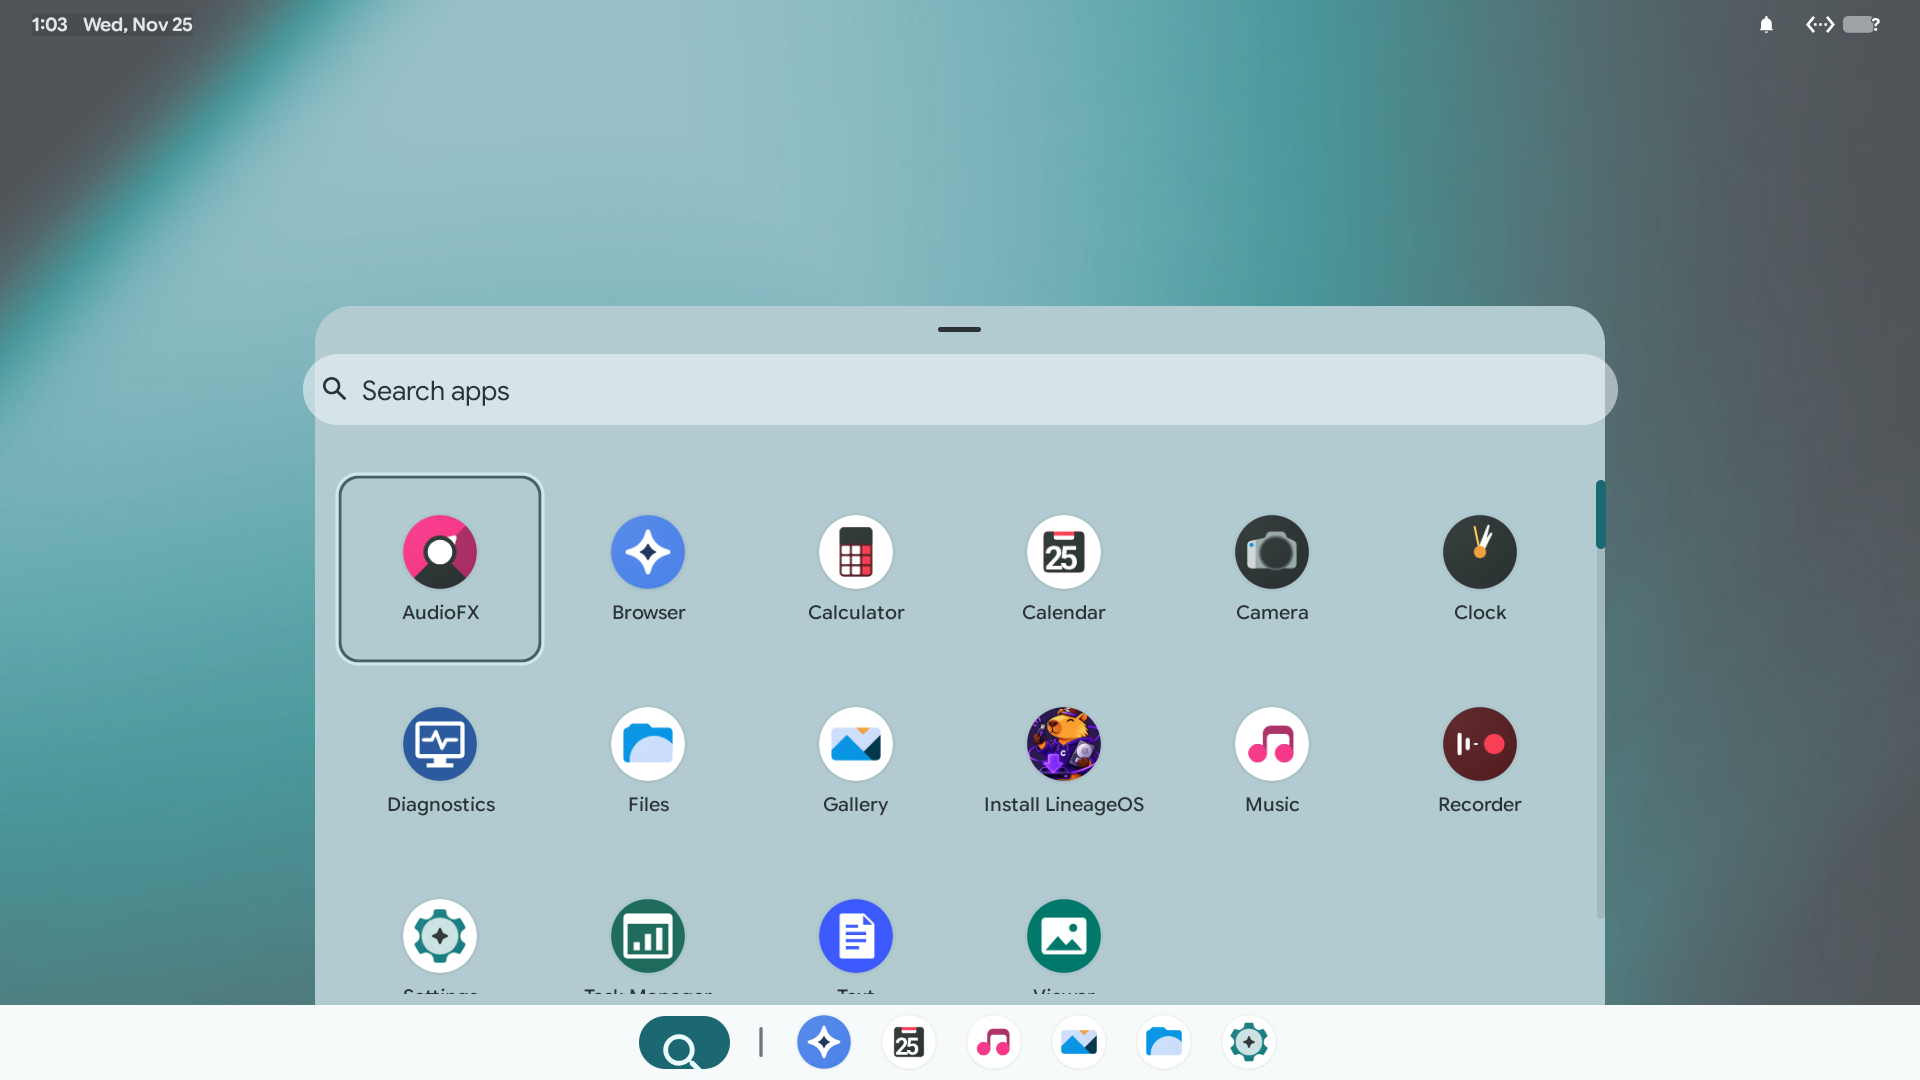
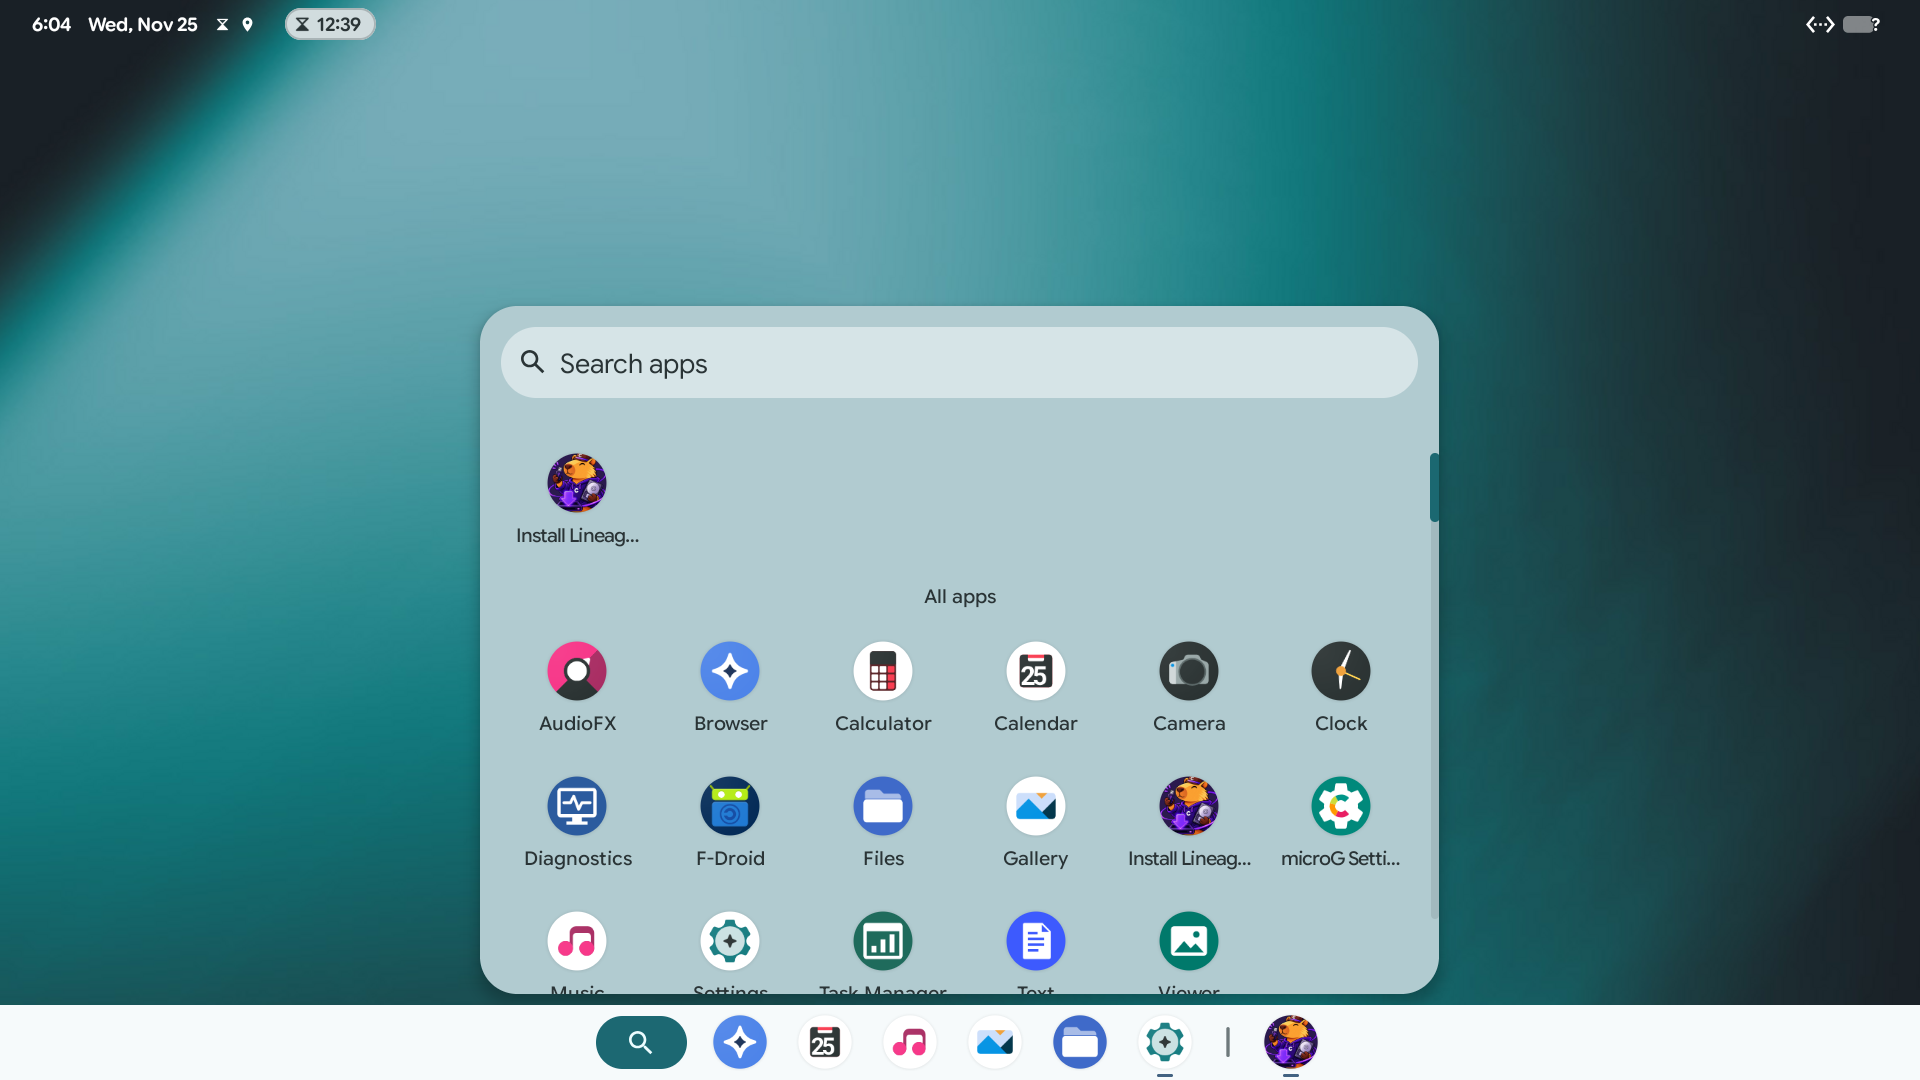
README: screenshots of the current build
Taken in QEMU/KVM at 1920x1080 from the live ISO.

diff --git a/README.md b/README.md
@@ -96,9 +96,13 @@ Desktop with the taskbar.
 
 Quick settings as a panel under the status area.
 
-![App list.](docs/screenshots/06-launcher.png)
+![Notifications next to the clock, with the timer chip in the same area.](docs/screenshots/05-notifications.png)
 
-App list.
+Notifications next to the clock: the app icons in the status bar open the panel, and ongoing activities like a timer sit in the same area.
+
+![App menu opened from the taskbar.](docs/screenshots/06-launcher.png)
+
+App menu opened from the taskbar.
 
 ![Calendar opened from the clock.](docs/screenshots/07-calendar.png)
 
